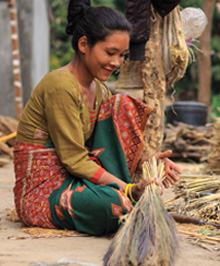
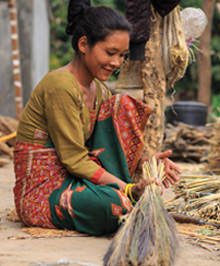
Image resized for mobile device and added in climate change.

diff --git a/includes/popup/climate-change-participation.php b/includes/popup/climate-change-participation.php
@@ -1,5 +1,5 @@
 
-    	<div id="climate-change-participation-popup" class="article-section " style="background-image: url('img/climate-change/participation-in-the-unfccc-process1-600.jpg'); height: 100%; width: 100%; top: 0; left: 0; z-index: 999;">
+    	<div id="climate-change-participation-popup" class="article-section " style="background-image: url('img/climate-change/participation-in-the-unfccc-process1<?php echo get_small_image();?>.jpg'); height: 100%; width: 100%; top: 0; left: 0; z-index: 999;">
 			<div class="section-intro content-txt section-absolute">
 				<h1 class="uppercase">Participation in the UNFCCC Process</h1>
 				<p>WWF Nepal participated in the 2015 United Nations Climate Change Conference, COP21 held in Paris, France, from 30 November to 12 December 2015, which marked the 21st yearly session of the Conference of the Parties to the 1992 United Nations Framework Convention on Climate Change (UNFCCC). The conference negotiated the Paris Agreement, a global agreement on the reduction of climate change. The agreement will enter into force when joined by at least 55 countries which together represent at least 55% of global greenhouse emissions. On 22 April 2016 (Earth Day), 174 countries, including Nepal, signed the agreement. Post COP 21, the government of Nepal submitted its Intended Nationally Determined Contributions (INDCs), which identified the role of REDD+ for climate change mitigation. WWF Nepal, as a team member, supported the government in drafting the INDCs.</p>

diff --git a/includes/popup/climate-change-alternate-energy.php b/includes/popup/climate-change-alternate-energy.php
@@ -1,5 +1,5 @@
 
-    	<div id="climate-change-alternate-energy-popup" class="article-section " style="background-image: url('img/climate-change/alternate-energy<?php //echo get_small_image();?>.jpg'); height: 100%; width: 100%;top: 0; left: 0; z-index: 999;">
+    	<div id="climate-change-alternate-energy-popup" class="article-section " style="background-image: url('img/climate-change/alternate-energy<?php echo get_small_image();?>.jpg'); height: 100%; width: 100%;top: 0; left: 0; z-index: 999;">
             <div class="section-intro content-txt section-absolute">
                 <h1 class="uppercase">Alternate energy</h1>
                 <p>A total of 2,500 biogas units were installed during this fiscal year contributing to the target of 20,000 units under the second phase of the Gold Standard Biogas Verification Emission Reduction (VER) Project (2013-2020) with 8,750 installed since its start. WWF Nepal completed its first Gold Standard Biogas VER project in the Terai Arc Landscape in 2015. The first vantage of carbon credits from the first phasegenerated €2 million. This is being channeled back to the local communities for building additional biogas units as well as funding community development programs. Biogas as an alternate energy source is helping replace household demand for firewood particularly in the Terai. This is reducing pressure on forest resources and contributing to the health of local communities through a smoke-free and cleaner energy alternative.</p>

diff --git a/includes/popup/climate-change-permanent.php b/includes/popup/climate-change-permanent.php
@@ -1,5 +1,5 @@
 
-        <div id="climate-change-permanent-popup" class="article-section " style="background-image: url('img/climate-change/permanent-climate-change-monitoring-plots-established.jpg'); height: 100%; width: 100%; top: 0; left: 0; z-index: 999;">
+        <div id="climate-change-permanent-popup" class="article-section " style="background-image: url('img/climate-change/permanent-climate-change-monitoring-plots-established<?php echo get_small_image();?>.jpg'); height: 100%; width: 100%; top: 0; left: 0; z-index: 999;">
 			<div class="section-intro content-txt section-absolute">
 				<h1 class="uppercase">Permanent climate change monitoring plots established</h1>
 				<p>WWF Nepal established a series of permanent plots in forests to monitor long-term impacts of climate change. The plots are located in the Chitwan-Annapurna Landscape, reaching from near sea level in Chitwan to the Tibetan plateau in Mustang at 4,500 m. Fauna, flora and socio-economic baseline surveys have been undertaken. The plots will be monitored regularly to see the effects of advancing climate change and climate variability. In some cases, pairs of nearby plots have been established, one in an area expected to be vulnerable to climate and the other in a likely climate refugia.  Hariyo Ban Program also plans to establish a similar series of freshwater climate change monitoring plots in the Kali Gandaki/Narayani river system.</p>

diff --git a/includes/popup/climate-change-building-community.php b/includes/popup/climate-change-building-community.php
@@ -1,5 +1,5 @@
 
-    	<div id="climate-change-building-community-popup" class="article-section " style="background-image: url('img/climate-change/building-community-resilience-to-climate-change.jpg'); height: 100%; width: 100%; top: 0; left: 0; z-index: 999;">
+    	<div id="climate-change-building-community-popup" class="article-section " style="background-image: url('img/climate-change/building-community-resilience-to-climate-change<?php echo get_small_image();?>.jpg'); height: 100%; width: 100%; top: 0; left: 0; z-index: 999;">
 			<div class="section-intro content-txt section-absolute">
 				<h1 class="uppercase">Building community resilience to climate change</h1>
 				<p>Climate adaptation interventions were supported through the formulation and implementation of Community Adaptation Plans of Action (CAPA) in vulnerable sites and Local Adaptation Plan for Action (LAPA) at the Village Development Committee level.An estimated 3,500 households benefitted from key adaptation interventions comprising of farmers’ schools, off-season cash crop farming, small irrigation support, construction of conservation ponds and water source protection to improve water availability for household use and irrigation. Plantations, check dams and bio-engineering for slope stabilization around vulnerable sites further helped protect forests and agricultural lands from inundation, landslides and riverbank cutting. </p>

diff --git a/includes/popup/climate-change-building-capacities.php b/includes/popup/climate-change-building-capacities.php
@@ -1,5 +1,5 @@
 
-    	<div id="climate-change-building-capacities-popup" class="article-section " style="background-image: url('img/climate-change/building-capacities-in-redd.jpg'); height: 100%; width: 100%;top: 0; left: 0; z-index: 999;">
+    	<div id="climate-change-building-capacities-popup" class="article-section " style="background-image: url('img/climate-change/building-capacities-in-redd<?php echo get_small_image();?>.jpg'); height: 100%; width: 100%;top: 0; left: 0; z-index: 999;">
 			<div class="section-intro content-txt section-absolute">
 				<h1 class="uppercase">Building capacities in REDD+</h1>
 				<p>With a view to building awareness and understanding of REDD+ amongst youth and academia, WWF Nepal provides capacity building opportunities in order to prepare future conservationists to take forward REDD+ issues. During this fiscal year, WWF Nepal brought together40 political youth representativesto discuss on issues related to natural resource management and renewables, REDD+, and issues on the new constitution of Nepal. 60 undergraduate and graduate students were also provided orientations on REDD+ and conducting forest carbon inventory. WWF Nepal also continued its engagement with the academic sector and provided scholarships to 15 academic researchers affiliated to various universities and colleges on climate change, biodiversity conservation and REDD+.</p>
